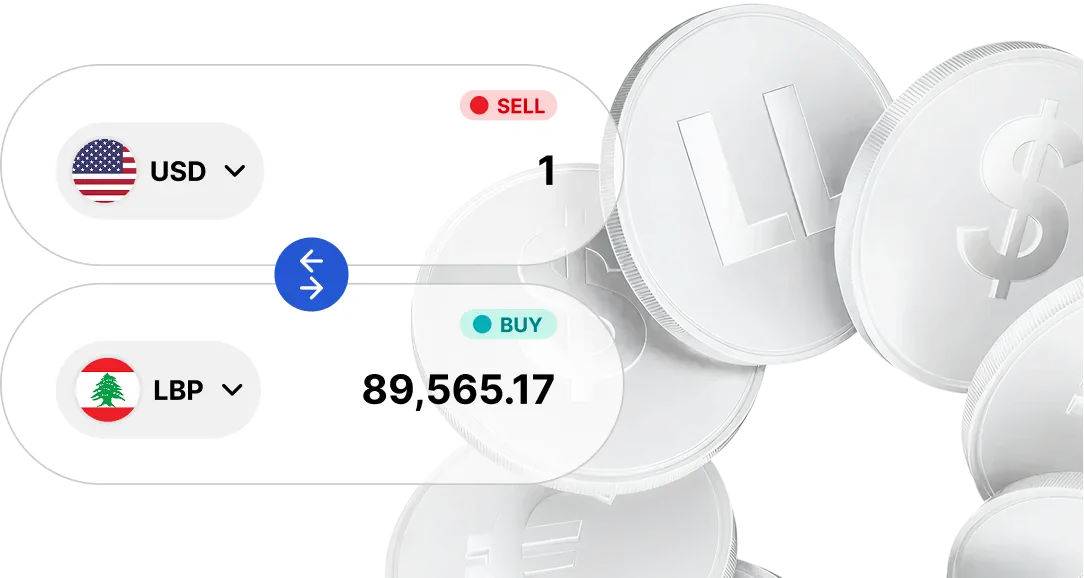
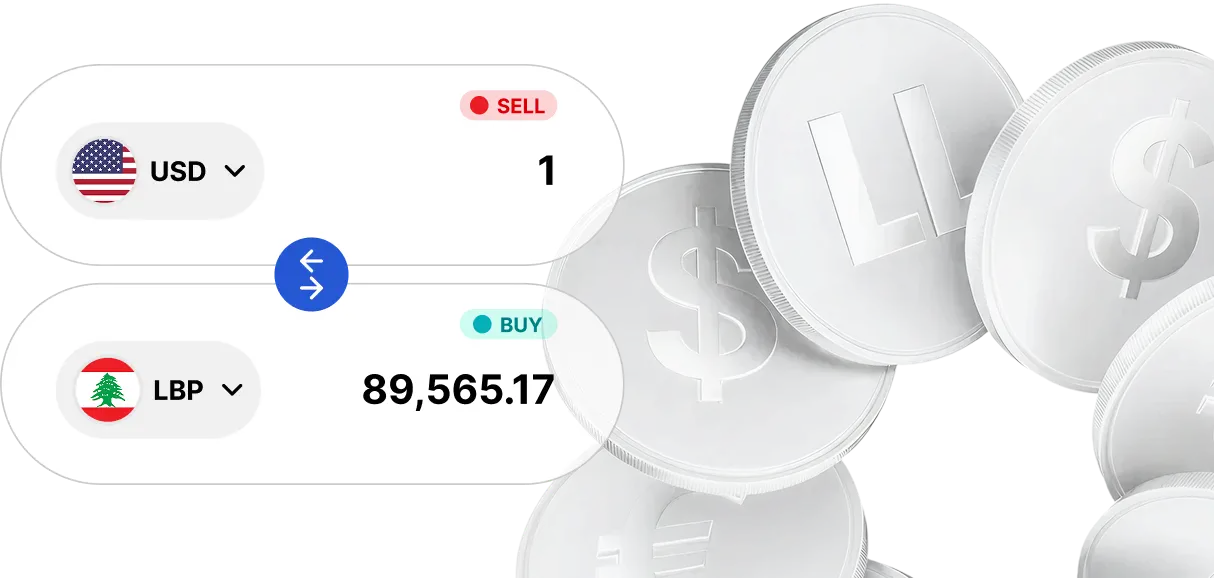
.

diff --git a/app/homepage-new/SectionThree.js b/app/homepage-new/SectionThree.js
@@ -7,16 +7,16 @@ const SectionThree = () => {
   return (
     <section className='pt-14 pb-14 lg:pt-28 lg:pb-20'>
       <div className="container">
-        <h2 className="text-center uppercase font-black text-3xl sm:text-5xl md:text-[2.875rem] leading-none">Your Money, Just Better </h2>
-        <p className="md:px-[20vw] text-center leading-8 mt-8">Fast Access, Smart & secure! <br /> Everything you need to manage your money effortlessly. </p>
+        <h2 className="text-center uppercase font-black text-3xl sm:text-5xl md:text-[2.875rem] leading-none">Your Money, Just Better </h2>
+        <p className="md:px-[20vw] text-center leading-8 mt-8">Fast Access, Smart & secure! <br /> Everything you need to manage your money effortlessly. </p>
 
         <div className="flex gap-5 max-lg:flex-col mt-16">
           <div className="lg:w-[35%] rounded-3xl bg-[#ECBBCF] relative overflow-hidden">
             <img src="/pink-blue-bg.webp" className="h-full w-full top-0 left-0 object-cover absolute" />
             <div className="relative z-10 flex flex-col h-full">
               <div className="p-10 pb-0 flex-1">
-                <h3 className="font-black uppercase text-3xl">Join 50k+ Users  </h3>
-                <p className="mt-4">MyMonty makes daily life easier for thousands of users in Lebanon. </p>
+                <h3 className="font-black uppercase text-3xl">Join 50k+ Users </h3>
+                <p className="mt-4">MyMonty makes daily life easier for thousands of users in Lebanon. </p>
               </div>
               <div className="flex-1">
                 <img src="/smiling-girl.webp" className="w-full" />
@@ -24,13 +24,13 @@ const SectionThree = () => {
             </div>
           </div>
           <div className="lg:w-[65%] flex flex-col gap-5">
-            <div className="bg-[#f7f7f7] h-full rounded-3xl overflow-hidden relative max-lg:gap-3">
+            <div className="bg-[#f7f7f7] flex flex-col h-full rounded-3xl overflow-hidden relative max-lg:gap-3">
               <div className="p-10 pb-0  lg:w-2/3">
                 <h3 className="font-black uppercase text-3xl">Multi-Currency Wallet</h3>
-                <p className="mt-4">One app. Three currencies. USD, LBP & EUR All ready to use instantly.</p>
+                <p className="mt-4">One app. Three currencies. USD, LBP & EUR All ready to use instantly.</p>
                 <a href="/accounts/multi-currency-wallet" className="mm-button mt-6 !px-8">Learn More</a>
               </div>
-              <div className="max-lg:pt-0 lg:pt-8 lg:w-4/5 ml-auto">
+              <div className="max-lg:pt-0 lg:pt-8 w-11/12 lg:w-4/5 ml-auto mt-auto">
                 <img src="/coins.webp" className="w-full" />
               </div>
             </div>

diff --git a/app/homepage-new/SectionFive.js b/app/homepage-new/SectionFive.js
@@ -7,7 +7,7 @@ const SectionFive = () => {
     
     return (
         <section className="relative overflow-hidden">
-            <img className="w-full h-screen object-cover" src='/section5bg.webp' width="" height="" />
+            <img className="w-full max-lg:h-screen object-cover" src='/section5bg.webp' width="" height="" />
 
             {/* Content */}
             <div className="container absolute z-10 left-1/2 top-16 -translate-x-1/2 text-center px-4">
